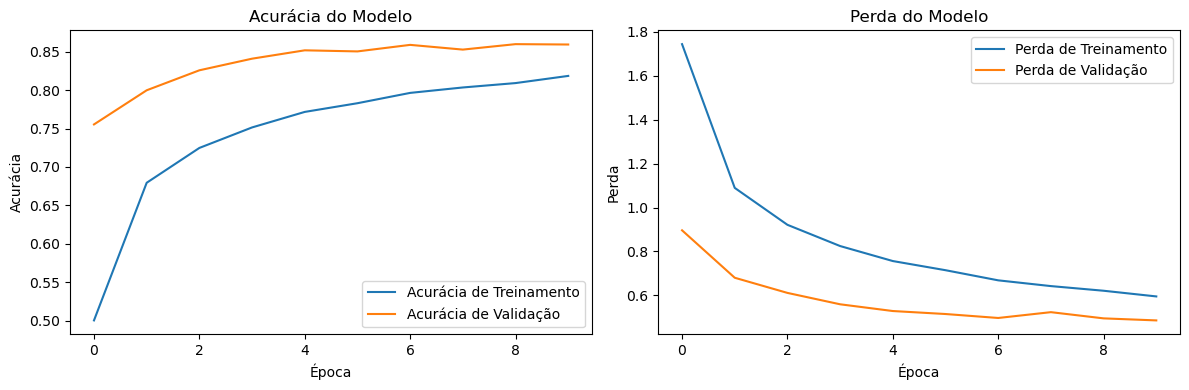
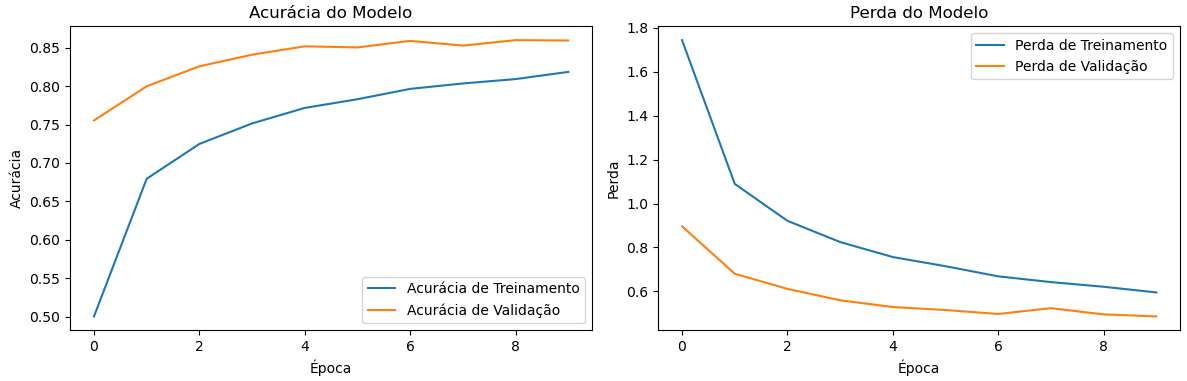
txt

diff --git a/README.md b/README.md
@@ -8,7 +8,7 @@
 
 The project aims to develop a comprehensive system for extracting, standardizing, and identifying audio files. Initially, the process verifies the folder where the files will be extracted and ensures that each file exists before attempting to open it. Next, it decompresses .gz files into .tar files, extracts the contents of the .tar, and retrieves the paths to the audio files. During this step, all .wav files are selected and the folder names are used as labels, which facilitates data identification. A specific function is then called to extract and list the files, displaying the first files found for validation.
 
-<img src="faixa.PNG" alt="faixa" width="600">
+<img src="faixa.PNG" alt="faixa" width="700">
 
 
 After extraction, the focus shifts to standardizing the audio files, ensuring that all files follow a consistent format for submission and processing. Each audio file is loaded and processed to meet a standard format: the audio is decoded into mono, unnecessary dimensions are removed, and the audio is resampled to 16 kHz if the original sampling rate differs. Additionally, the audio length is adjusted—long audio files are truncated while shorter ones are padded with zeros. This preprocessing step enables waveform plotting and the application of techniques such as sfft for spectrogram analysis, contributing to a better understanding of the audio signals.
@@ -18,7 +18,8 @@ The next phase involves training an audio identification model. In this process,
 
 Finally, the trained model is saved and configured as a pre-trained model capable of classifying over 500 audio categories, showcasing the robustness and applicability of the developed system.
 
-<img src="output.PNG" alt="output" width="800">
+
+<img src="output.PNG" alt="output" width="700">
 
 
 
@@ -30,7 +31,7 @@ Finally, the trained model is saved and configured as a pre-trained model capabl
 
 O projeto tem como objetivo desenvolver um sistema completo para extração, padronização e identificação de arquivos de áudio. Inicialmente, o processo verifica a pasta onde os arquivos serão extraídos, certificando-se de que cada arquivo existe antes de ser aberto. Em seguida, realiza a descompactação de arquivos no formato .gz para .tar, extraindo o conteúdo deste último para obter os caminhos dos arquivos de áudio. Durante essa etapa, são selecionados todos os arquivos .wav e os nomes das pastas são utilizados como rótulos, possibilitando a identificação dos dados. Uma função específica é chamada para extrair e listar os arquivos, exibindo os primeiros arquivos encontrados para validação.
 
-<img src="faixa.PNG" alt="faixa" width="600">
+<img src="faixa.PNG" alt="faixa" width="700">
 
 Após a extração, o foco se volta para a padronização dos arquivos de áudio, garantindo que todos sigam um formato consistente para envio e processamento. Cada arquivo de áudio é carregado e processado para atender a um formato padrão: o áudio é decodificado em mono, dimensões desnecessárias são removidas, e o áudio é reamostrado para 16 kHz caso a taxa original seja diferente. Além disso, o tamanho do áudio é ajustado—áudios muito longos são truncados, enquanto os curtos recebem preenchimento com zeros. Esse pré-processamento possibilita a plotagem da forma de onda e a aplicação de técnicas como a sfft para análise dos espectrogramas, contribuindo para uma melhor compreensão dos sinais de áudio.
 
@@ -38,4 +39,4 @@ A etapa seguinte envolve o treinamento de um modelo de identificação de áudio
 
 Por fim, o modelo treinado é salvo e configurado como um modelo pré-treinado, capaz de classificar mais de 500 categorias de áudio, o que evidencia a robustez e a aplicabilidade do sistema desenvolvido.
 
-<img src="output.PNG" alt="output" width="800">
+<img src="output.PNG" alt="output" width="700">
